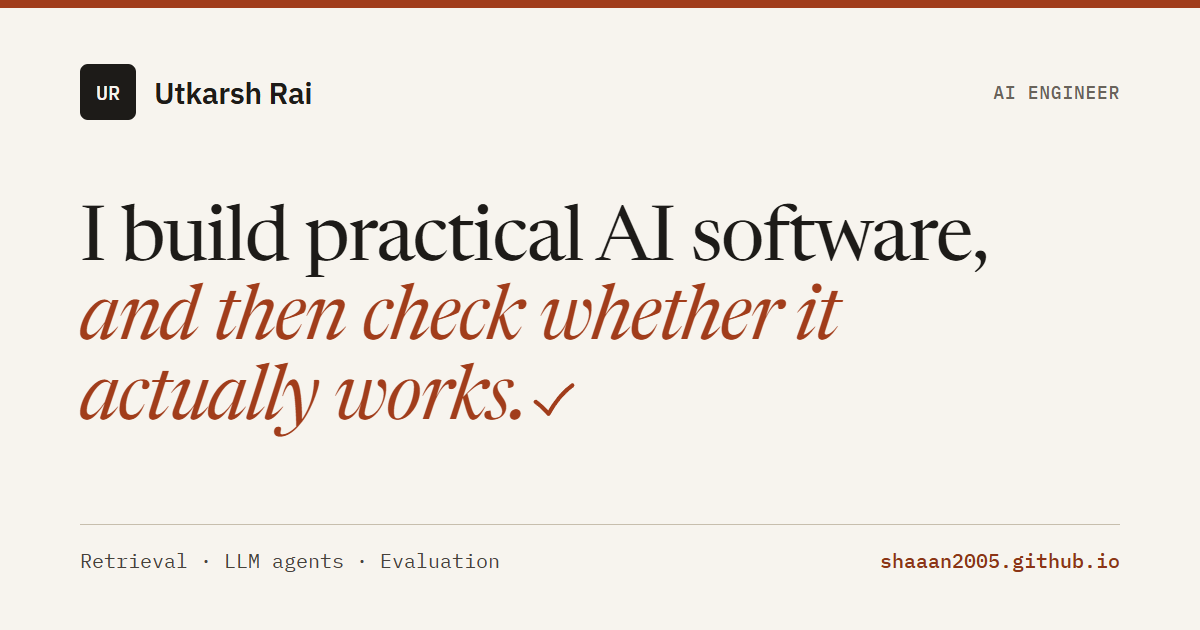
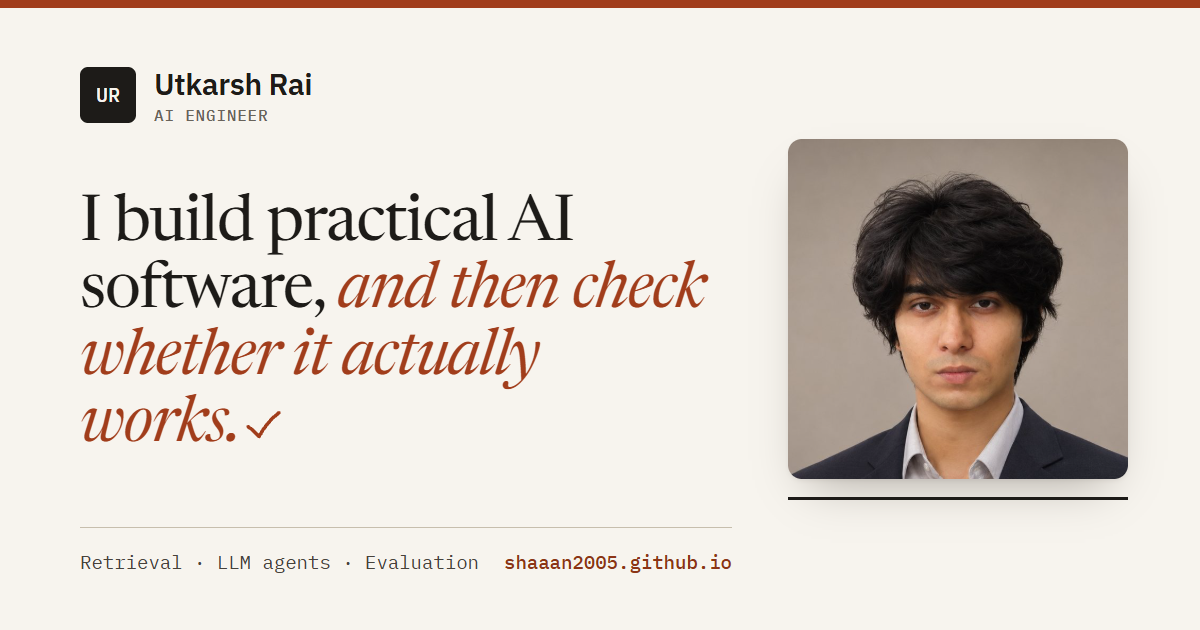
Balance DecisionOS card with agent-count line; add portrait to link-preview image

diff --git a/index.html b/index.html
@@ -27,7 +27,7 @@
   <meta property="og:image" content="https://shaaan2005.github.io/assets/og-image.png">
   <meta property="og:image:width" content="1200">
   <meta property="og:image:height" content="630">
-  <meta property="og:image:alt" content="Utkarsh Rai, AI engineer: I build practical AI software, and then check whether it actually works.">
+  <meta property="og:image:alt" content="Portrait of Utkarsh Rai, AI engineer, beside the headline: I build practical AI software, and then check whether it actually works.">
   <meta name="twitter:card" content="summary_large_image">
   <meta name="twitter:title" content="Utkarsh Rai — AI engineer">
   <meta name="twitter:description" content="Retrieval systems, LLM agents and the benchmarks that test them.">
@@ -337,10 +337,11 @@
             <p class="kicker">Full-stack · Multi-agent LLM app</p>
             <h3 id="p-decisionos">DecisionOS: an AI boardroom</h3>
             <p>
-              A single chatbot tends to agree with whoever asks. Here, five advisor agents debate your decision
-              in a LangGraph workflow, and a chairman agent writes the verdict, risks and an action plan.
+              A single chatbot tends to agree with whoever asks. Here, five advisor agents debate your decision,
+              and a chairman agent writes the verdict, risks and an action plan.
               Past decisions are kept in ChromaDB memory. Built solo.
             </p>
+            <p class="metric-line"><strong>7</strong> agents per decision: an analyzer, five advisors and a chairman, coordinated in one LangGraph workflow.</p>
             <ul class="tags" aria-label="Technologies used">
               <li>LangGraph</li><li>FastAPI</li><li>ChromaDB</li><li>React</li>
             </ul>
